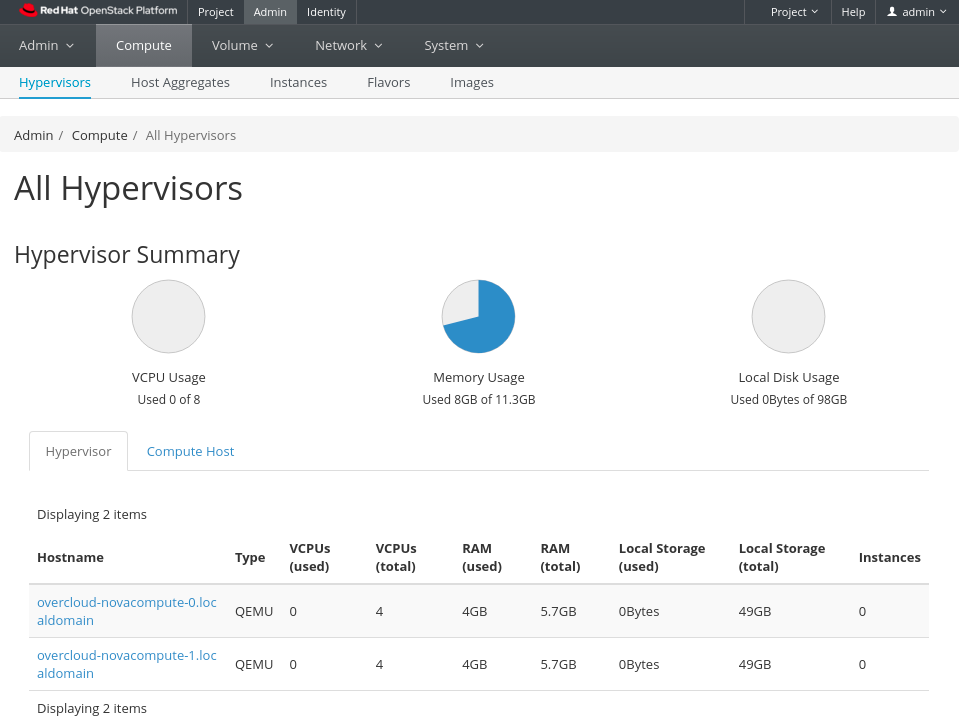
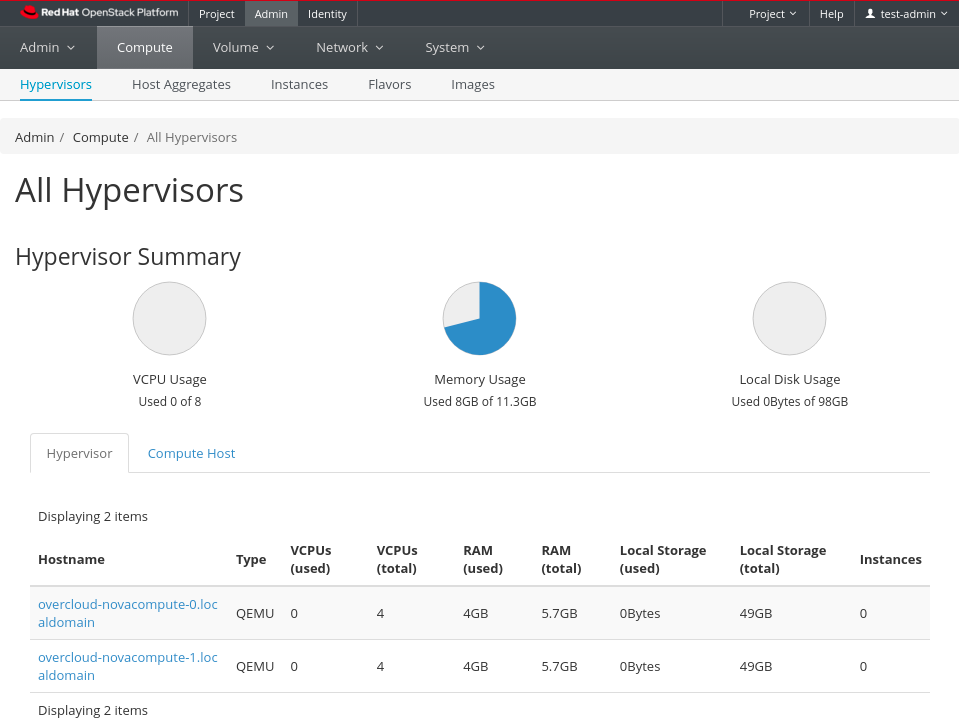
Add multidomain support. Modify README.md to support a new domain different from Default. Update pictures.

diff --git a/README.md b/README.md
@@ -275,15 +275,36 @@ grep PASSWORD overcloudrc
 export OS_PASSWORD=XXXXXXXXXXXXXX
 ```
 
+### Post deploy configurations
+
+#### Create a domain and a project
+
+```
+source /home/stack/overcloudrc
+openstack domain create RHOSPVirtLab
+openstack project create --domain RHOSPVirtLab test-project
+```
+
+#### Create domain users
+
+```
+source /home/stack/overcloudrc
+openstack user create --domain RHOSPVirtLab --project test-project --project-domain RHOSPVirtLab --password-prompt --description "Test project admin" test-admin
+openstack role add --domain RHOSPVirtLab --user test-admin --user-domain RHOSPVirtLab admin
+openstack role add --project test-project --user test-admin --user-domain RHOSPVirtLab admin
+```
+
+(Choose a password for the test-admin user)
+
 ### Open dashboard
 
-From a web browser, open the Overcloud Horizon Dashboard URL and login as **admin**.
+From a web browser, open the Overcloud Horizon Dashboard URL and login to the domain **RHOSPVirtLab** as **test-admin** using the password you configured.
 
 ![Dashboard](images/dashboard.png)
 
 ![Hypervisors](images/hypervisors.png)
 
-### Post deploy configurations
+#### Requirements for instances
 
 In order to be able to boot some instances:
 
@@ -291,4 +312,3 @@ In order to be able to boot some instances:
  * Create a tenant network.
  * Create some flavors.
  * Upload some images.
- * Create a projects and users and assing roles.
